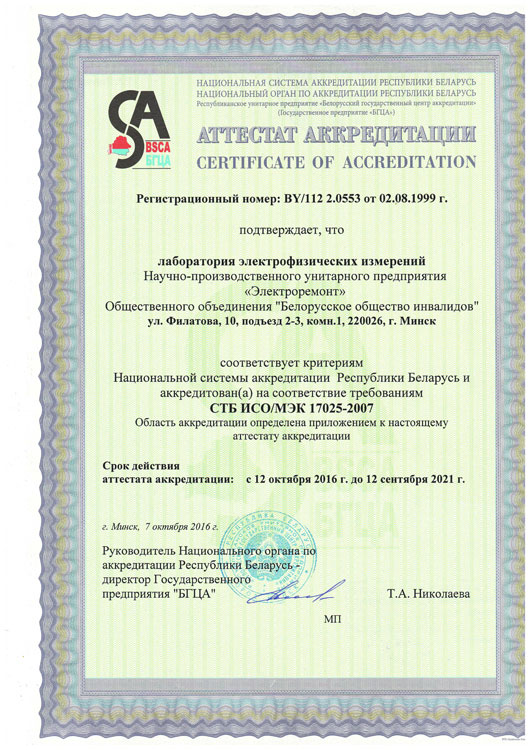
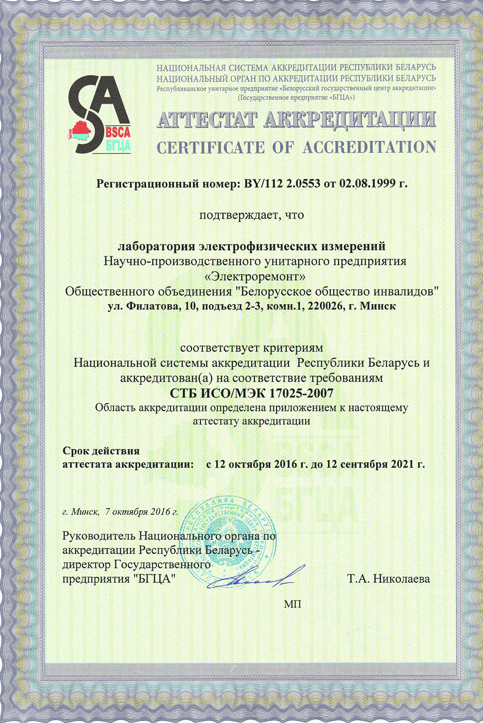
Changed size of images in lowerSlider

diff --git a/about.html b/about.html
@@ -140,11 +140,11 @@
 					<div><img src="carousel/slider014.jpg" alt="Сертификат" class="slide slideShow"></div>
 				</div>
 				<div class="slider-nav">
-					<div><img src="carousel/slider010.jpg" alt="Сертификат" class="slide slideNav"></div>
-					<div><img src="carousel/slider011.jpg" alt="Сертификат" class="slide slideNav"></div>
-					<div><img src="carousel/slider012.jpg" alt="Сертификат" class="slide slideNav"></div>
-					<div><img src="carousel/slider013.jpg" alt="Сертификат" class="slide slideNav"></div>
-					<div><img src="carousel/slider014.jpg" alt="Сертификат" class="slide slideNav"></div>
+					<div><img src="carousel/slider010_min.jpg" alt="Сертификат" class="slide slideNav"></div>
+					<div><img src="carousel/slider011_min.jpg" alt="Сертификат" class="slide slideNav"></div>
+					<div><img src="carousel/slider012_min.jpg" alt="Сертификат" class="slide slideNav"></div>
+					<div><img src="carousel/slider013_min.jpg" alt="Сертификат" class="slide slideNav"></div>
+					<div><img src="carousel/slider014_min.jpg" alt="Сертификат" class="slide slideNav"></div>
 				</div>
 			</div>
 		</div>			

diff --git a/style.css b/style.css
@@ -130,16 +130,21 @@ a:visited {color:#F4F7FA;}							/*color extra-light-gray*/
 	background-color:white;
 	margin-top:2em;
 	margin-bottom:2em;
+}
+.slider-for {
 	border:0.1em solid #0828B5;  				/*color Blue*/
+	padding:0.3em 0.2em !important;
 }
 .slideShow{
 	min-width:100%;
 	height:30em;
-	padding:0 !important;
 }
 .slideNav {
 	min-width:100%;
 	height:5em;
+	margin-top:1.5em;
+	padding-left:.5em;
+	padding-right:.5em;
 }
 
 /*Footer*/

diff --git a/script.js b/script.js
@@ -16,7 +16,7 @@ $(document).ready(function() {
 		asNavFor: '.slider-nav'
 	});
 	$('.slider-nav').slick({
-		slidesToShow: 2,
+		slidesToShow: 3,
 		slidesToScroll: 1,
 		asNavFor: '.slider-for',
 		centerMode: true,
